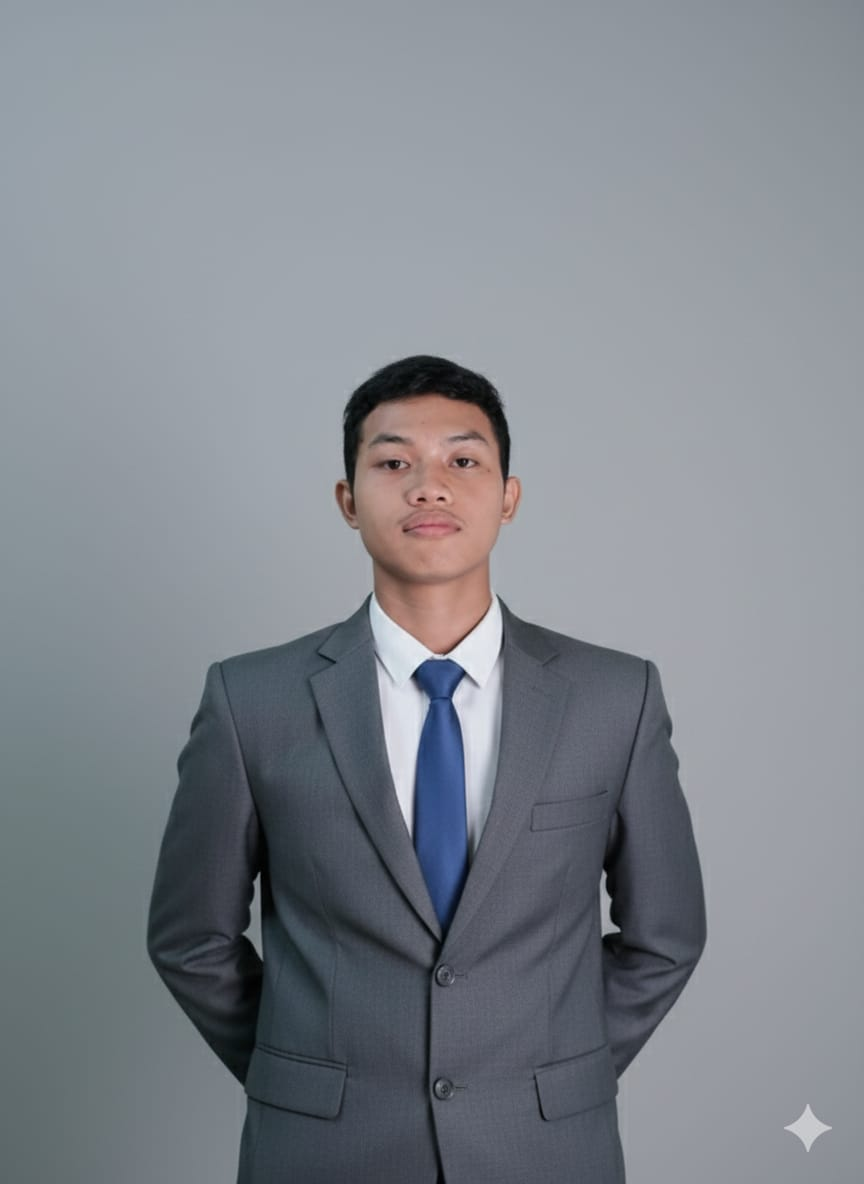
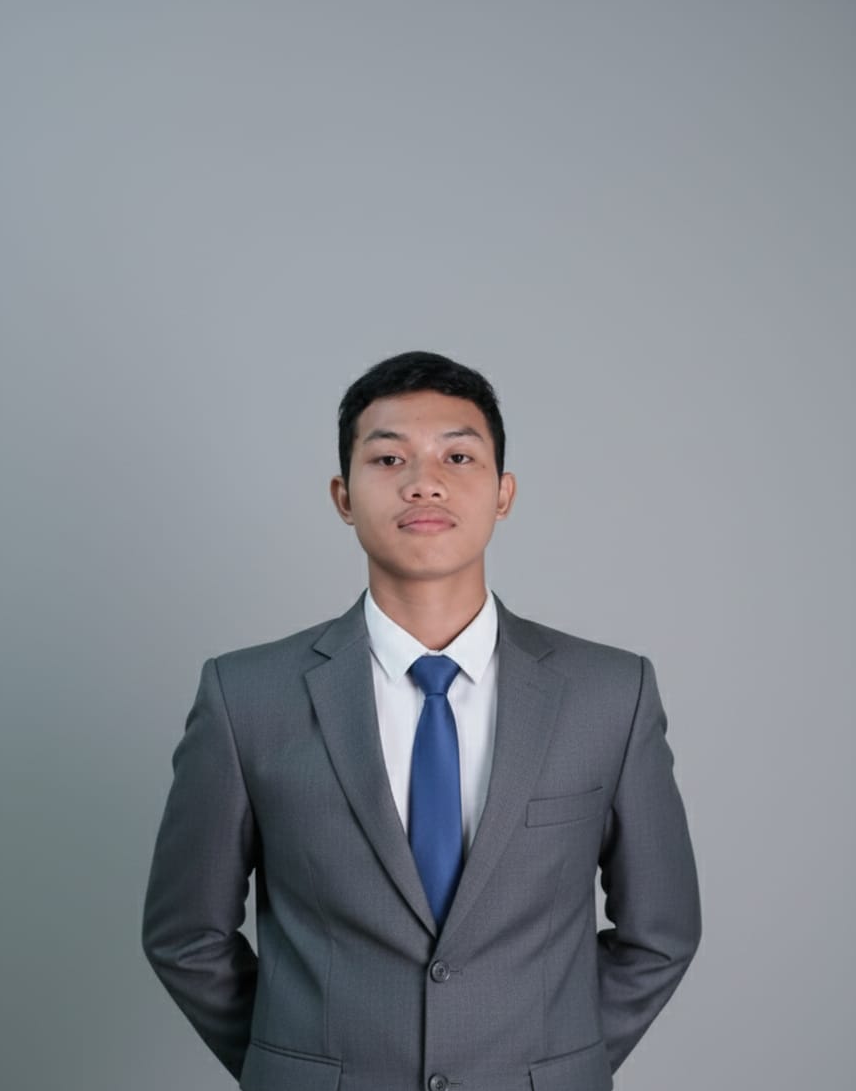
fix(team): fix modal member photo aspect ratio and height bug

diff --git a/src/pages/Team.tsx b/src/pages/Team.tsx
@@ -533,11 +533,13 @@ export const Team: React.FC = () => {
 
             <div className="flex flex-col sm:flex-row gap-6 items-start">
               {/* Photo */}
-              <div className="w-24 h-24 sm:w-5/12 sm:aspect-[4/5] mx-auto sm:mx-0 rounded-xl overflow-hidden bg-gray-200 dark:bg-[#1a1a1a] flex-shrink-0 max-h-48 sm:max-h-none">
+              <div className="w-44 sm:w-5/12 aspect-[4/5] mx-auto sm:mx-0 rounded-xl overflow-hidden bg-gray-200 dark:bg-[#1a1a1a] flex-shrink-0">
                 <img
                   src={selectedMember.member.image}
                   alt={selectedMember.member.name}
-                  className="w-full h-full object-cover"
+                  className={`w-full h-full object-cover ${
+                    selectedMember.member.name === "Stanly Andrian Pratama" ? "object-top" : ""
+                  }`}
                   loading="lazy"
                 />
               </div>
